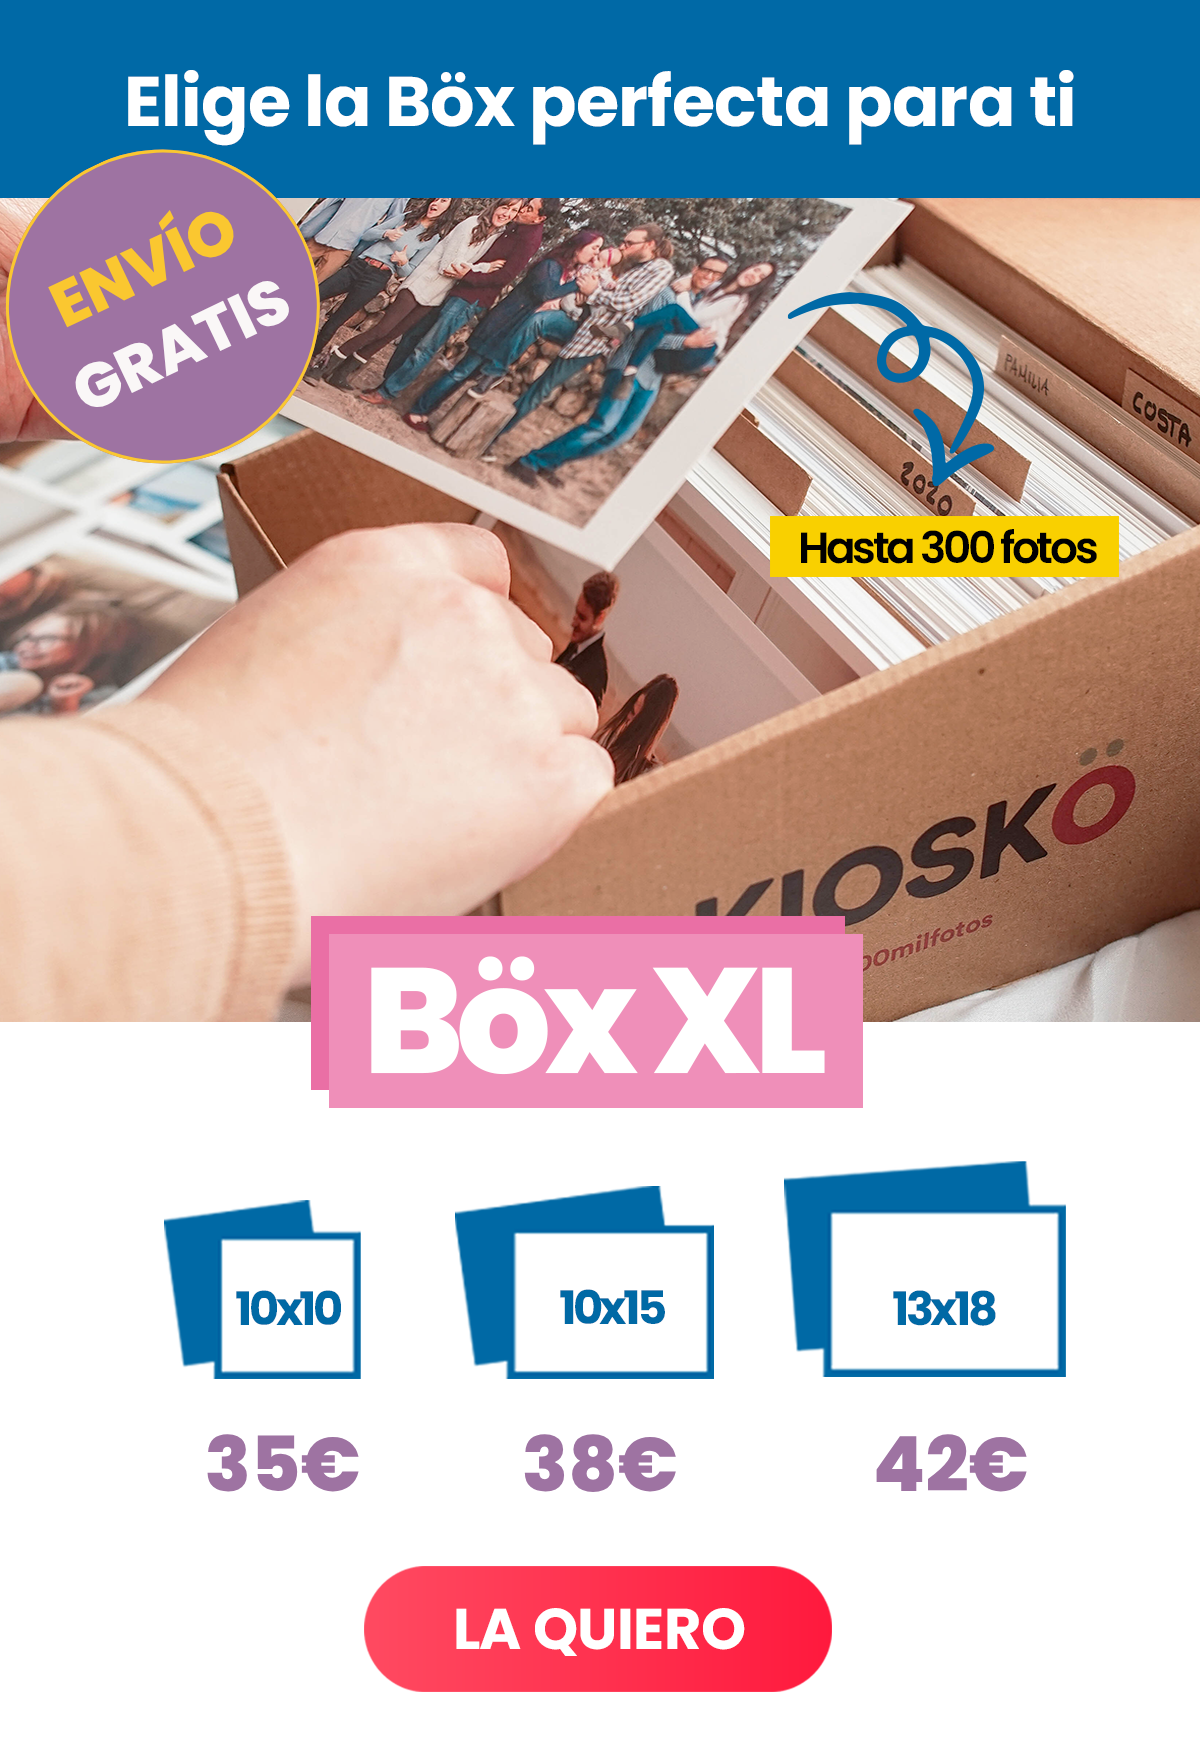
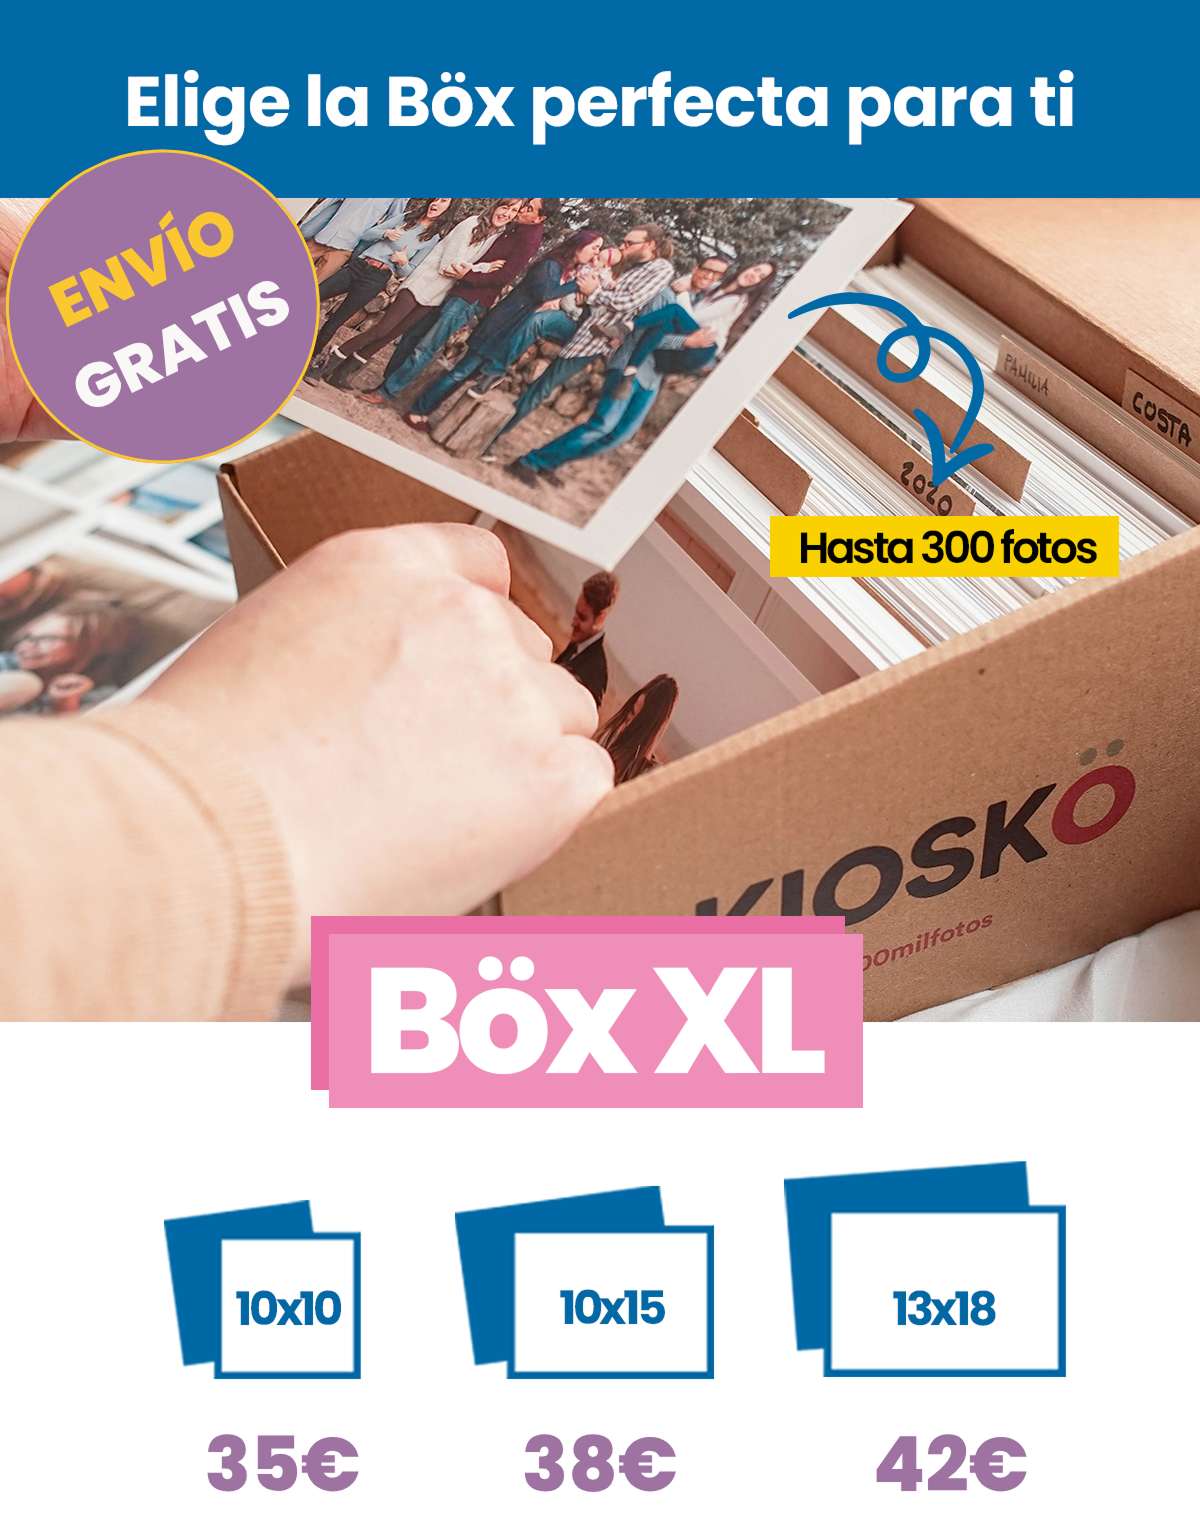
feat: add call-to-action buttons and update assets for email-2 template

diff --git a/email-2.html b/email-2.html
@@ -160,10 +160,40 @@
                     </td>
                 </tr>
 
+                <!-- BOTÓN -->
+                <tr>
+                    <td align="center" style="padding: 30px 20px; background-color: #ffffff;">
+                        <table border="0" cellspacing="0" cellpadding="0" align="center" role="presentation">
+                            <tr>
+                                <td align="center" style="border-radius: 50px; background-color: #FF1F41; transition: background-color 0.3s ease;">
+                                    <a href="https://checkout.kioskobox.com/canales/whatsappgo?utm_source=newsletter&utm_medium=email&utm_campaign=enviogratismarzo1" target="_blank" style="font-size: 18px; font-family: 'Helvetica Neue', Helvetica, Arial, sans-serif; color: #ffffff; text-decoration: none; border-radius: 50px; padding: 15px 35px; border: 1px solid #FF1F41; display: inline-block; font-weight: bold;">
+                                        LA QUIERO
+                                    </a>
+                                </td>
+                            </tr>
+                        </table>
+                    </td>
+                </tr>
+
                 <!-- HERO IMAGE 3 -->
                 <tr>
                     <td align="center" style="padding: 0;">
                         <img src="assets/email-2/3.png" width="600" alt="Más detalles" class="img-fluid" style="width: 100%; max-width: 600px; display: block; border: 0;" />
+                    </td>
+                </tr>
+
+                <!-- BOTÓN -->
+                <tr>
+                    <td align="center" style="padding: 30px 20px 40px 20px; background-color: #ffffff;">
+                        <table border="0" cellspacing="0" cellpadding="0" align="center" role="presentation">
+                            <tr>
+                                <td align="center" style="border-radius: 50px; background-color: #FF1F41; transition: background-color 0.3s ease;">
+                                    <a href="https://checkout.kioskobox.com/canales/whatsappgo?utm_source=newsletter&utm_medium=email&utm_campaign=enviogratismarzo1" target="_blank" style="font-size: 18px; font-family: 'Helvetica Neue', Helvetica, Arial, sans-serif; color: #ffffff; text-decoration: none; border-radius: 50px; padding: 15px 35px; border: 1px solid #FF1F41; display: inline-block; font-weight: bold;">
+                                        LA QUIERO
+                                    </a>
+                                </td>
+                            </tr>
+                        </table>
                     </td>
                 </tr>
 
